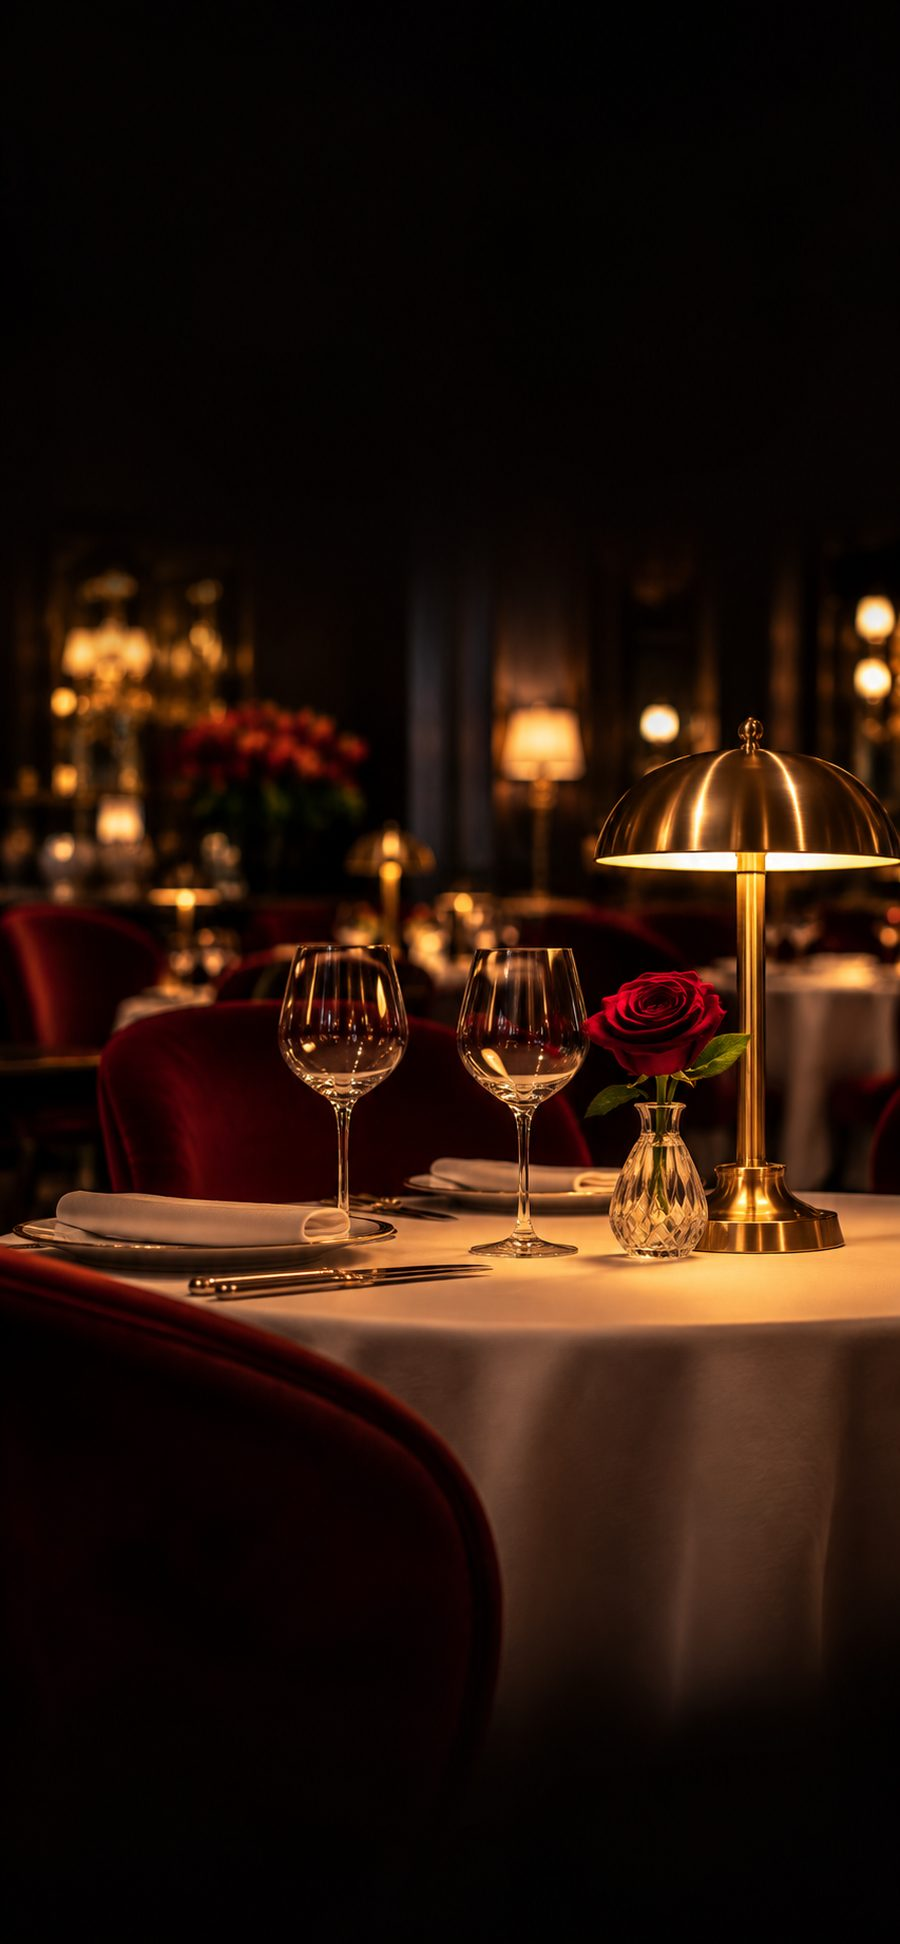
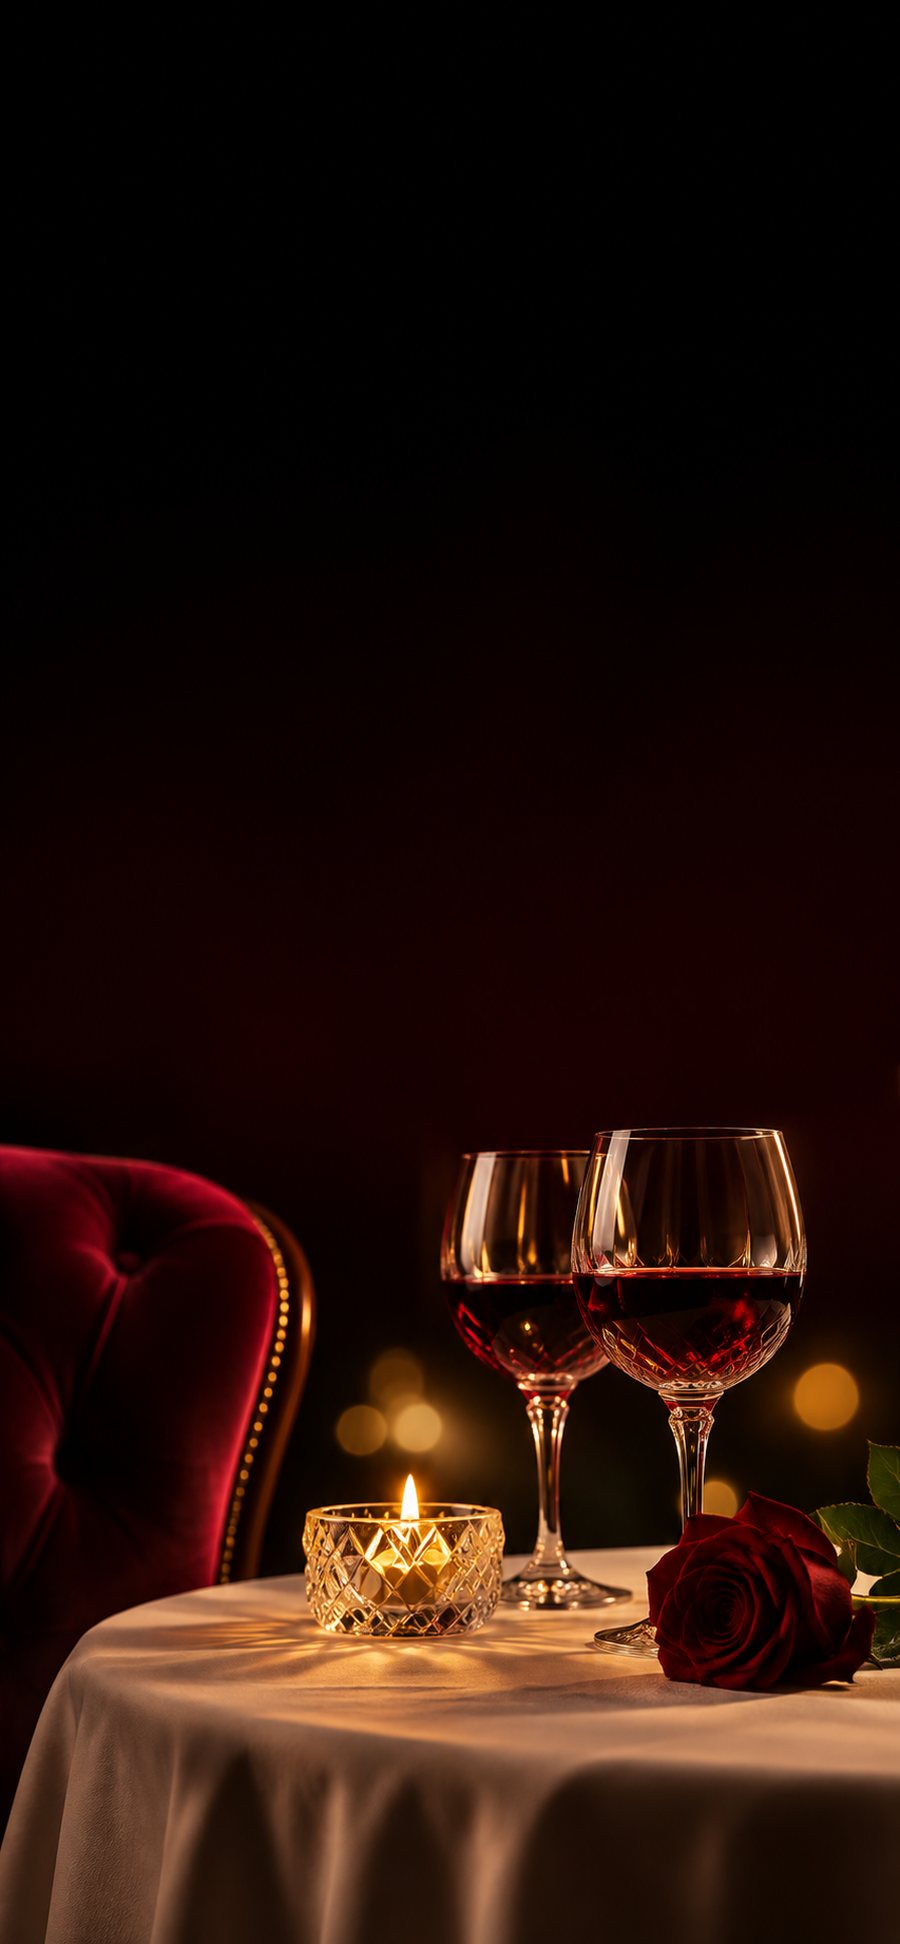
Automatyczne przeładowanie po nowej wersji, nowe tło ekranu startowego
Claude-Session: https://claude.ai/code/session_01MBC5hNv9xcLQY8ZyjMTjHp

diff --git a/app.css b/app.css
@@ -34,8 +34,8 @@ img{display:block}
 /* splash */
 .splash{position:absolute;inset:0;z-index:50;display:flex;flex-direction:column;align-items:center;justify-content:center;background:radial-gradient(ellipse 90% 45% at 50% 22%,#1d0a0e 0%,#050404 70%);transition:opacity .6s ease,visibility .6s}
 .splash.out{opacity:0;visibility:hidden}
-.splash-bg{position:absolute;left:0;right:0;bottom:0;height:60%;background:url(img/start.jpg) center bottom/cover no-repeat;opacity:1;-webkit-mask-image:linear-gradient(180deg,transparent 0%,rgba(0,0,0,.6) 30%,#000 60%);mask-image:linear-gradient(180deg,transparent 0%,rgba(0,0,0,.6) 30%,#000 60%);filter:saturate(.9) brightness(.8);transform:scale(1.06);animation:kenburns 6s ease-out forwards}
-.splash-bg::after{content:"";position:absolute;inset:0;background:linear-gradient(180deg,rgba(5,4,4,.2) 0%,rgba(5,4,4,.1) 60%,rgba(5,4,4,.8) 100%)}
+.splash-bg{position:absolute;inset:0;background:#050404 url(img/start.jpg) center bottom/cover no-repeat;opacity:1;filter:saturate(.9) brightness(.8);transform:scale(1.06);animation:kenburns 6s ease-out forwards}
+.splash-bg::after{content:"";position:absolute;inset:0;background:linear-gradient(180deg,rgba(5,4,4,.0) 0%,rgba(5,4,4,0) 80%,rgba(5,4,4,.55) 100%)}
 @keyframes kenburns{to{transform:scale(1)}}
 .splash-inner{position:absolute;left:0;right:0;top:calc(var(--st) + 11vh);text-align:center}
 .splash-logo{width:118px;height:118px;margin:0 auto 22px;border-radius:26px;box-shadow:0 18px 50px rgba(0,0,0,.7),0 0 40px rgba(214,168,78,.18)}

diff --git a/app.js b/app.js
@@ -1,4 +1,5 @@
 "use strict";
+const APP_V = "20261106-160728";
 /* Gdzie zjeść: przeglądarka lokali. Tylko wyświetla dane z data/places.json. */
 
 const ICO = {
@@ -488,6 +489,24 @@ if ("serviceWorker" in navigator) {
     }).catch(() => {});
   });
 }
+/* nowa wersja aplikacji: przy starcie i po powrocie z tła */
+async function checkVersion() {
+  try {
+    const r = await fetch("version.json", { cache: "no-store" });
+    const v = (await r.json()).v;
+    if (v && v !== APP_V) {
+      let tried = null; try { tried = sessionStorage.getItem("gz-reload"); } catch (e) {}
+      if (tried === v) return;
+      try { sessionStorage.setItem("gz-reload", v); } catch (e) {}
+      const reg = navigator.serviceWorker && (await navigator.serviceWorker.getRegistration());
+      if (reg) await reg.update().catch(() => {});
+      location.reload();
+    }
+  } catch (e) {}
+}
+checkVersion();
+document.addEventListener("visibilitychange", () => { if (document.visibilityState === "visible") checkVersion(); });
+
 /* świeże dane po powrocie do aplikacji z tła */
 let lastLoad = Date.now();
 document.addEventListener("visibilitychange", async () => {

diff --git a/sw.js b/sw.js
@@ -2,8 +2,9 @@
    Pliki aplikacji i dane: zawsze najpierw sieć (świeża wersja przy każdym uruchomieniu),
    kopia z telefonu tylko bez internetu. Zdjęcia: z pamięci, bo się nie zmieniają. */
 const V = "gz-app";
+const WERSJA = "20261106-160728";
 const IMG = "gz-img-v1";
-const SHELL = ["./", "index.html", "app.css", "app.js", "manifest.webmanifest", "data/places.json", "img/logo.png", "img/start.jpg"];
+const SHELL = ["./", "version.json", "index.html", "app.css", "app.js", "manifest.webmanifest", "data/places.json", "img/logo.png", "img/start.jpg"];
 
 self.addEventListener("install", (e) => {
   e.waitUntil(caches.open(V).then((c) => Promise.all(SHELL.map((u) => fetch(u, { cache: "no-store" }).then((r) => r.ok && c.put(u, r)).catch(() => {})))).then(() => self.skipWaiting()));

diff --git a/collector/publikuj.py b/collector/publikuj.py
@@ -1,0 +1,9 @@
+"""Ustawia nowy numer wersji w app.js, sw.js i version.json. Uruchamiać przed każdym commitem z repo."""
+import re, json, time
+v = time.strftime("%Y%m%d-%H%M%S")
+for f in ("app.js", "sw.js"):
+    s = open(f).read()
+    s = re.sub(r'(APP_V|WERSJA) = "[^"]*"', lambda m: f'{m.group(1)} = "{v}"', s, count=1)
+    open(f, "w").write(s)
+json.dump({"v": v}, open("version.json", "w"))
+print("wersja", v)

diff --git a/KONTYNUACJA.md b/KONTYNUACJA.md
@@ -45,7 +45,7 @@ viewport user-scalable=no, `touch-action: pan-x pan-y` na aplikacji, blokada ges
 Zakładka Mapa: Leaflet i markercluster w vendor/leaflet (ładowane dopiero po wejściu w zakładkę). Kafelki tile.openstreetmap.org z filtrem CSS (jasny, wyciszony styl). CARTO odpadło, bo bez klucza pokazuje znak wodny „API KEY REQUIRED”. Bordowe większe punkty to lokale eleganckie. Etykieta: zdjęcie, nazwa, kuchnia, ocena, link do karty. Lokalizacja przez watchPosition; mapa centruje się na użytkowniku tylko, gdy jest w Lublinie. Mapa trzyma stan (kontener #mapwrap poza #view).
 
 ## Aktualizacje w telefonie
-Service worker (sw.js): pliki aplikacji i data/places.json zawsze najpierw z sieci (6 s limitu, potem kopia), przy starcie i powrocie do aplikacji `reg.update()`, po zmianie wersji jedno przeładowanie. Po 10 minutach w tle aplikacja sama dociąga świeże dane. Nie trzeba podbijać numerów wersji.
+Service worker (sw.js): pliki aplikacji i data/places.json zawsze najpierw z sieci (6 s limitu, potem kopia), przy starcie i powrocie do aplikacji `reg.update()`, po zmianie wersji jedno przeładowanie. Po 10 minutach w tle aplikacja sama dociąga świeże dane. Przed każdym commitem: `python3 collector/publikuj.py` (nowy numer w app.js, sw.js, version.json). Aplikacja przy starcie i po wybudzeniu porównuje APP_V z version.json i sama się przeładowuje. Publikacja GitHub Pages trwa kilka minut.
 
 ## Grafiki właściciela
 img/start.jpg (ekran startowy) i img/kafle/*.jpg (kuchnia-…, klimat-…, okazja-…). build_data.py wpisuje listę dostępnych kafli do meta.tiles. Rodzaje lokali (lokal-…) mają ikony zamiast grafik.
